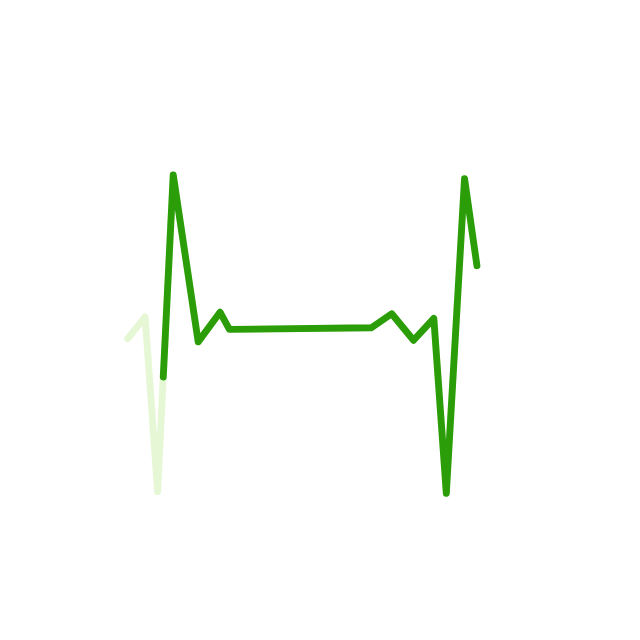
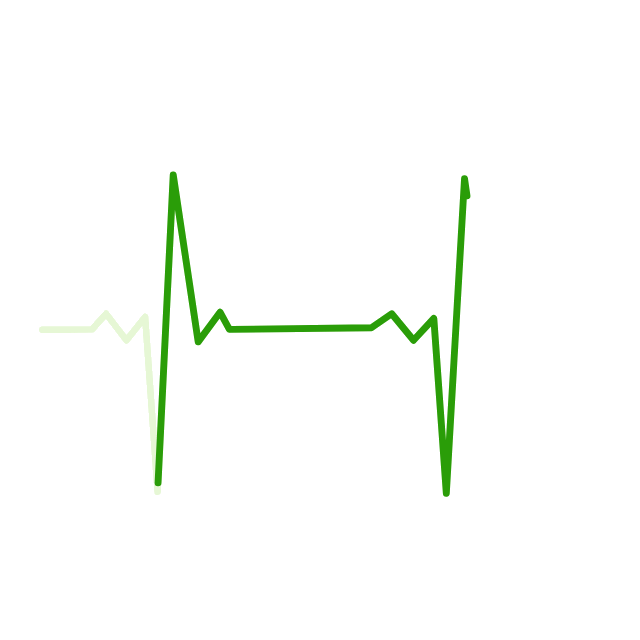
v82: transparent-webp anims (no blend ambiguity), loader full-width in flex grid

Changed region(s): [[0.2188, 0.5938, 0.2812, 0.75], [0.0625, 0.4688, 0.2188, 0.5312], [0.7188, 0.3125, 0.75, 0.4375]]

diff --git a/public/styles.css b/public/styles.css
@@ -1203,8 +1203,8 @@ main.wrap section { animation: panelIn var(--t-std) var(--ease) backwards; }
 }
 
 /* ---- Animated illustrations (Lottie assets, recolored to brand) ---- */
-.anim-recolor{filter:hue-rotate(66deg) saturate(1.15) brightness(.92);mix-blend-mode:multiply}
-.anim-load{display:flex;flex-direction:column;align-items:center;justify-content:center;gap:2px;padding:14px 0;color:var(--muted);font-size:13px;font-weight:600;text-align:center}
+.anim-recolor{filter:hue-rotate(66deg) saturate(1.15) brightness(.92)}
+.anim-load{width:100%;display:flex;flex-direction:column;align-items:center;justify-content:center;gap:2px;padding:14px 0;color:var(--muted);font-size:13px;font-weight:600;text-align:center}
 #slot-grid .anim-load, #my-bookings .anim-load, #family-list .anim-load, #clinic-detail .anim-load{grid-column:1/-1;min-height:120px}
 .anim-load img{width:84px;height:84px;object-fit:contain;display:block}
 .anim-empty{display:block;width:104px;height:104px;object-fit:contain;margin:0 auto 2px}

diff --git a/public/index.html b/public/index.html
@@ -15,7 +15,7 @@
 <link rel="preconnect" href="https://fonts.googleapis.com">
 <link rel="preconnect" href="https://fonts.gstatic.com" crossorigin>
 <link href="https://fonts.googleapis.com/css2?family=Inter:wght@400;500;600;700&family=Plus+Jakarta+Sans:wght@500;600;700;800&display=swap" rel="stylesheet">
-<link rel="stylesheet" href="styles.css?v=81">
+<link rel="stylesheet" href="styles.css?v=82">
 <link rel="icon" type="image/png" href="/favicon-64.png">
 <link rel="manifest" href="/manifest.webmanifest">
 <meta name="theme-color" content="#0D9488">
@@ -350,7 +350,7 @@
 <link rel="stylesheet" href="vendor/leaflet.css">
 <script src="vendor/leaflet.js" defer></script>
 <script>window.__bootErrs=[];addEventListener("error",function(e){__bootErrs.push((e.message||"")+" @ "+(e.filename||"").split("/").pop()+":"+e.lineno)});</script>
-  <script src="app.js?v=81"></script>
-<script src="chat.js?v=81"></script>
+  <script src="app.js?v=82"></script>
+<script src="chat.js?v=82"></script>
 </body>
 </html>

diff --git a/public/app.js b/public/app.js
@@ -1660,8 +1660,8 @@ async function loadPatient() {
   catch { state.patient = null; }
 }
 
-const CAL_ICON = `<picture><source media="(prefers-reduced-motion: reduce)" srcset="/brand/anim/cal.png"><img src="/brand/anim/cal.gif" alt="" class="anim-recolor anim-empty"></picture>`;
-const ECG_ANIM = `<picture><source media="(prefers-reduced-motion: reduce)" srcset="/brand/anim/ecg.png"><img src="/brand/anim/ecg.gif" alt="" class="anim-recolor"></picture>`;
+const CAL_ICON = `<picture><source media="(prefers-reduced-motion: reduce)" srcset="/brand/anim/cal.png"><img src="/brand/anim/cal.webp" alt="" class="anim-recolor anim-empty"></picture>`;
+const ECG_ANIM = `<picture><source media="(prefers-reduced-motion: reduce)" srcset="/brand/anim/ecg.png"><img src="/brand/anim/ecg.webp" alt="" class="anim-recolor"></picture>`;
 const LOADER = (label) => `<div class="anim-load">${ECG_ANIM}<div>${label}</div></div>`;
 
 function maskPhone(p) { return p ? '+91 ' + p.slice(0, 5) + ' ' + p.slice(5) : ''; }
